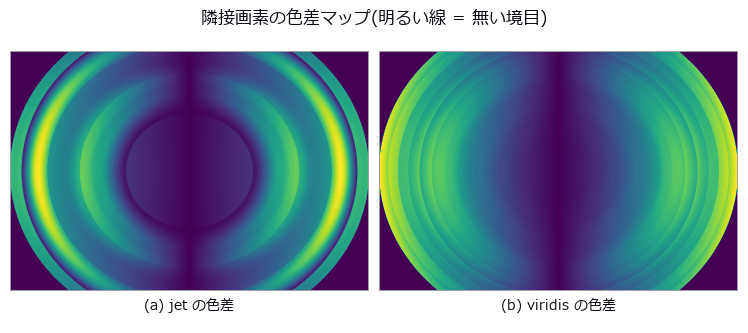
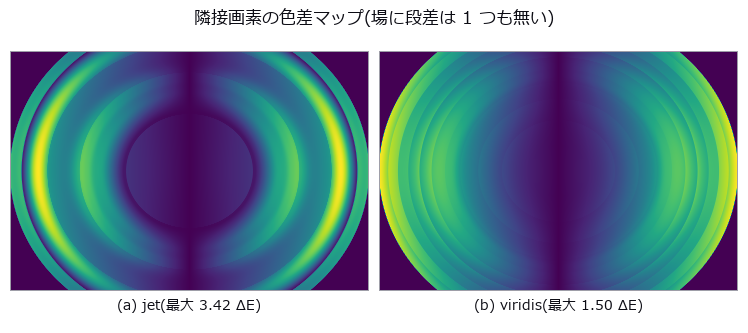
auto: imgio.py 編集前 (2026-09-08 07:45)

Changed region(s): [[0.246, 0.03, 0.738, 0.0901], [0.615, 0.9009, 0.861, 0.9309], [0.1537, 0.9009, 0.3382, 0.961]]

diff --git a/examples/poc_colormap_readability.py b/examples/poc_colormap_readability.py
@@ -427,10 +427,11 @@ def section_bowl(meas: dict) -> dict:
     figs.save_grid("scene_maps", panels, caps, ncols=3,
                    title="同じなめらかな 2 次曲面(段差ゼロ)を 6 通りに塗る",
                    caption="jet と hsv には無いはずの帯が見える。")
-    de_panels = []
+    de_panels, de_max = [], []
     for name in ("jet", "viridis"):
         rgb = np.asarray(fs.apply_cmap(f, name, vmin=0.0, vmax=1.0))
         de = step_delta_e(rgb)
+        de_max.append(float(de.max()))
         de_panels.append(de / max(de.max(), 1e-9))
     figs.save_grid("false_edge_map", de_panels,
                    ["jet(最大 %.2f ΔE)" % de_max[0],
